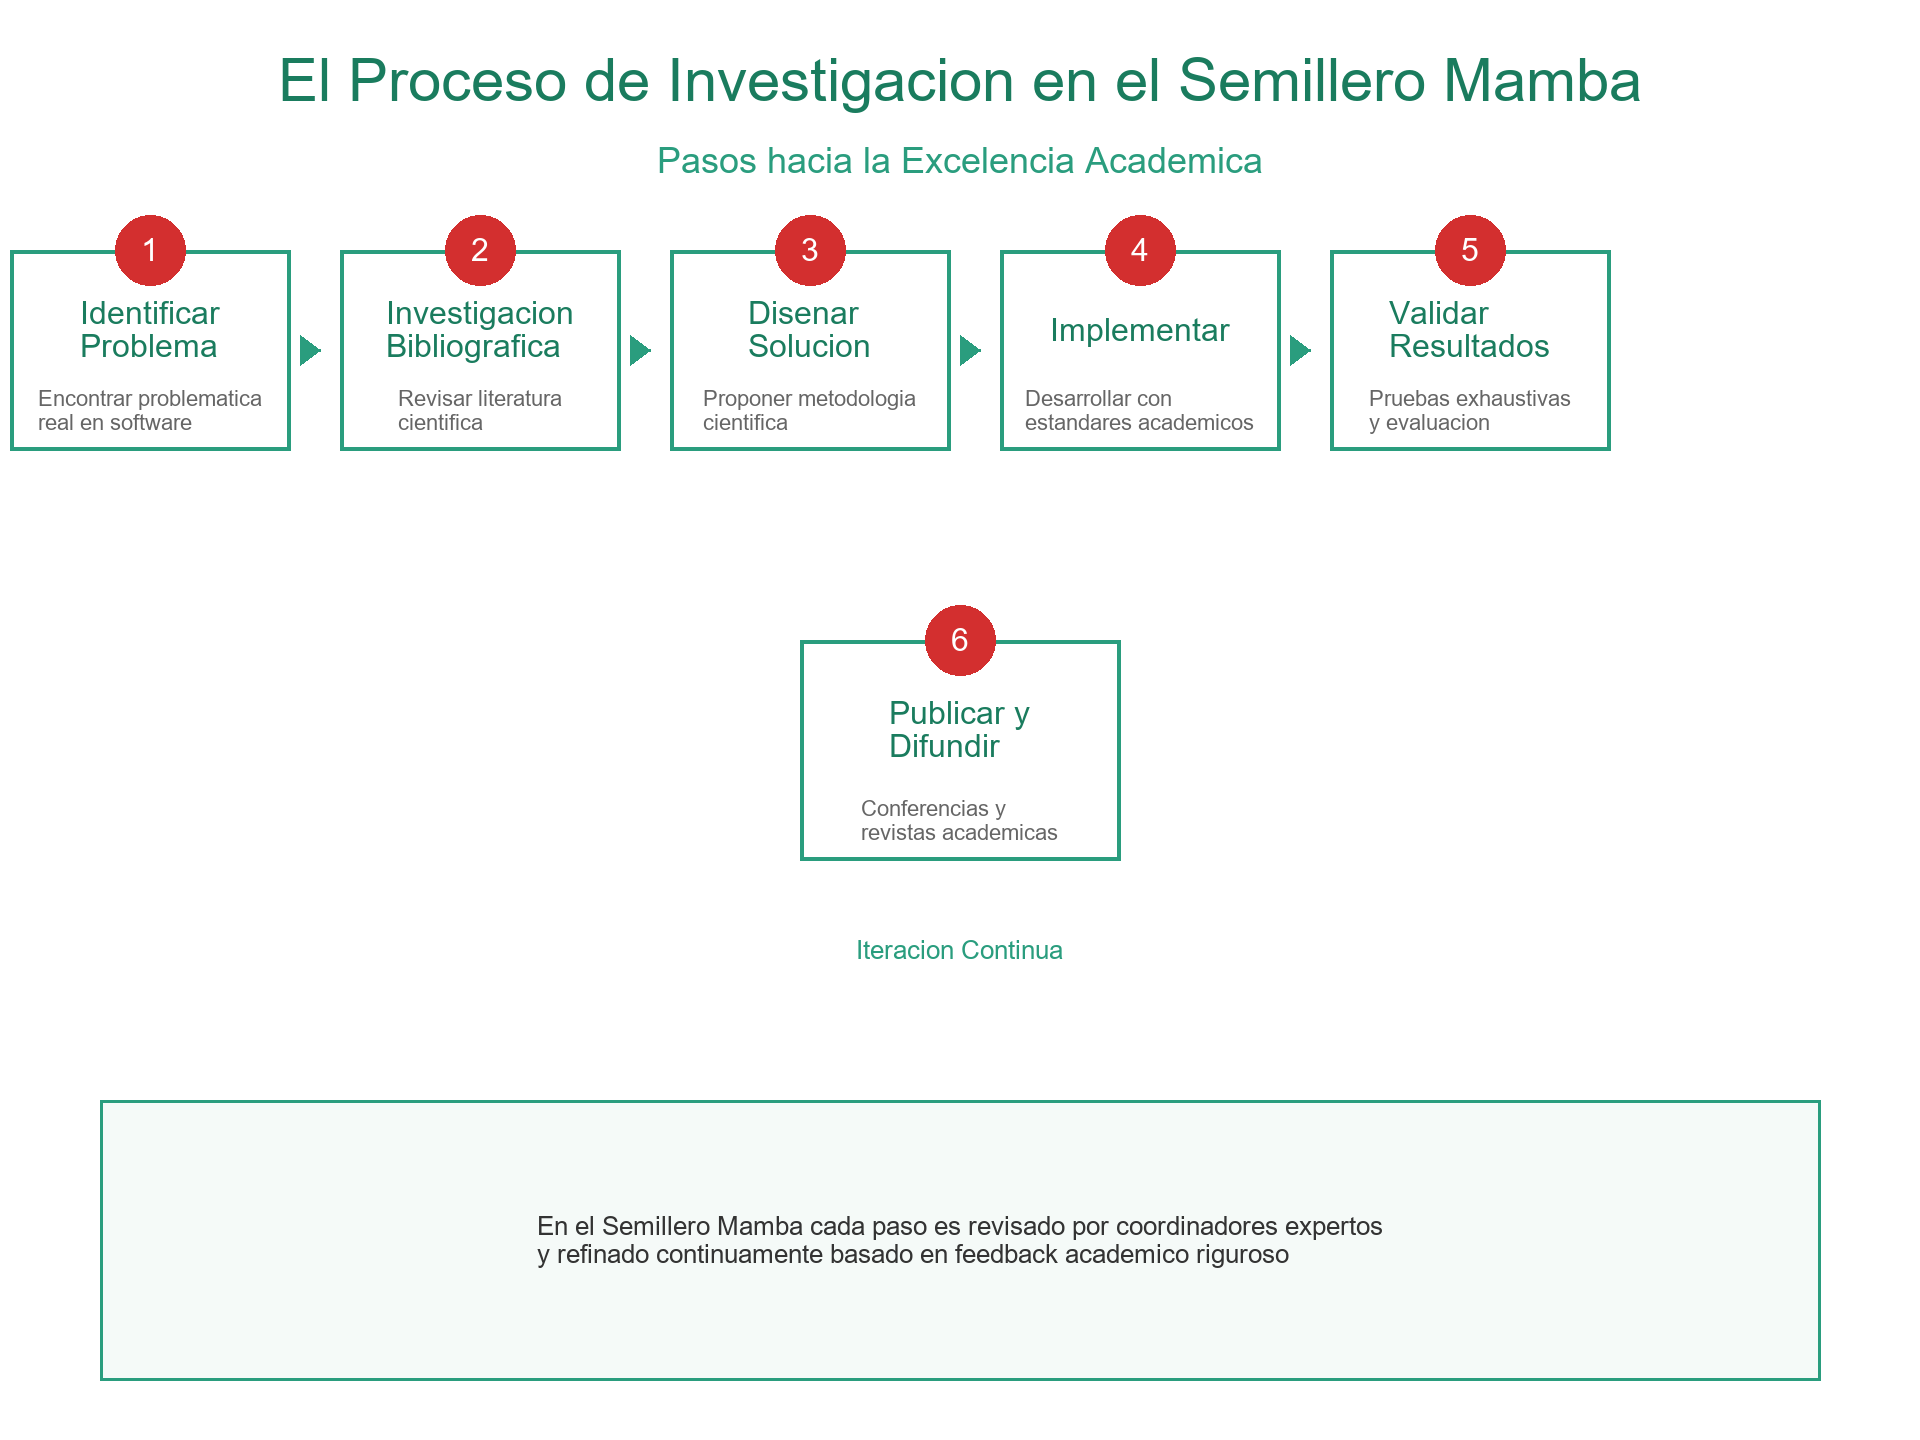
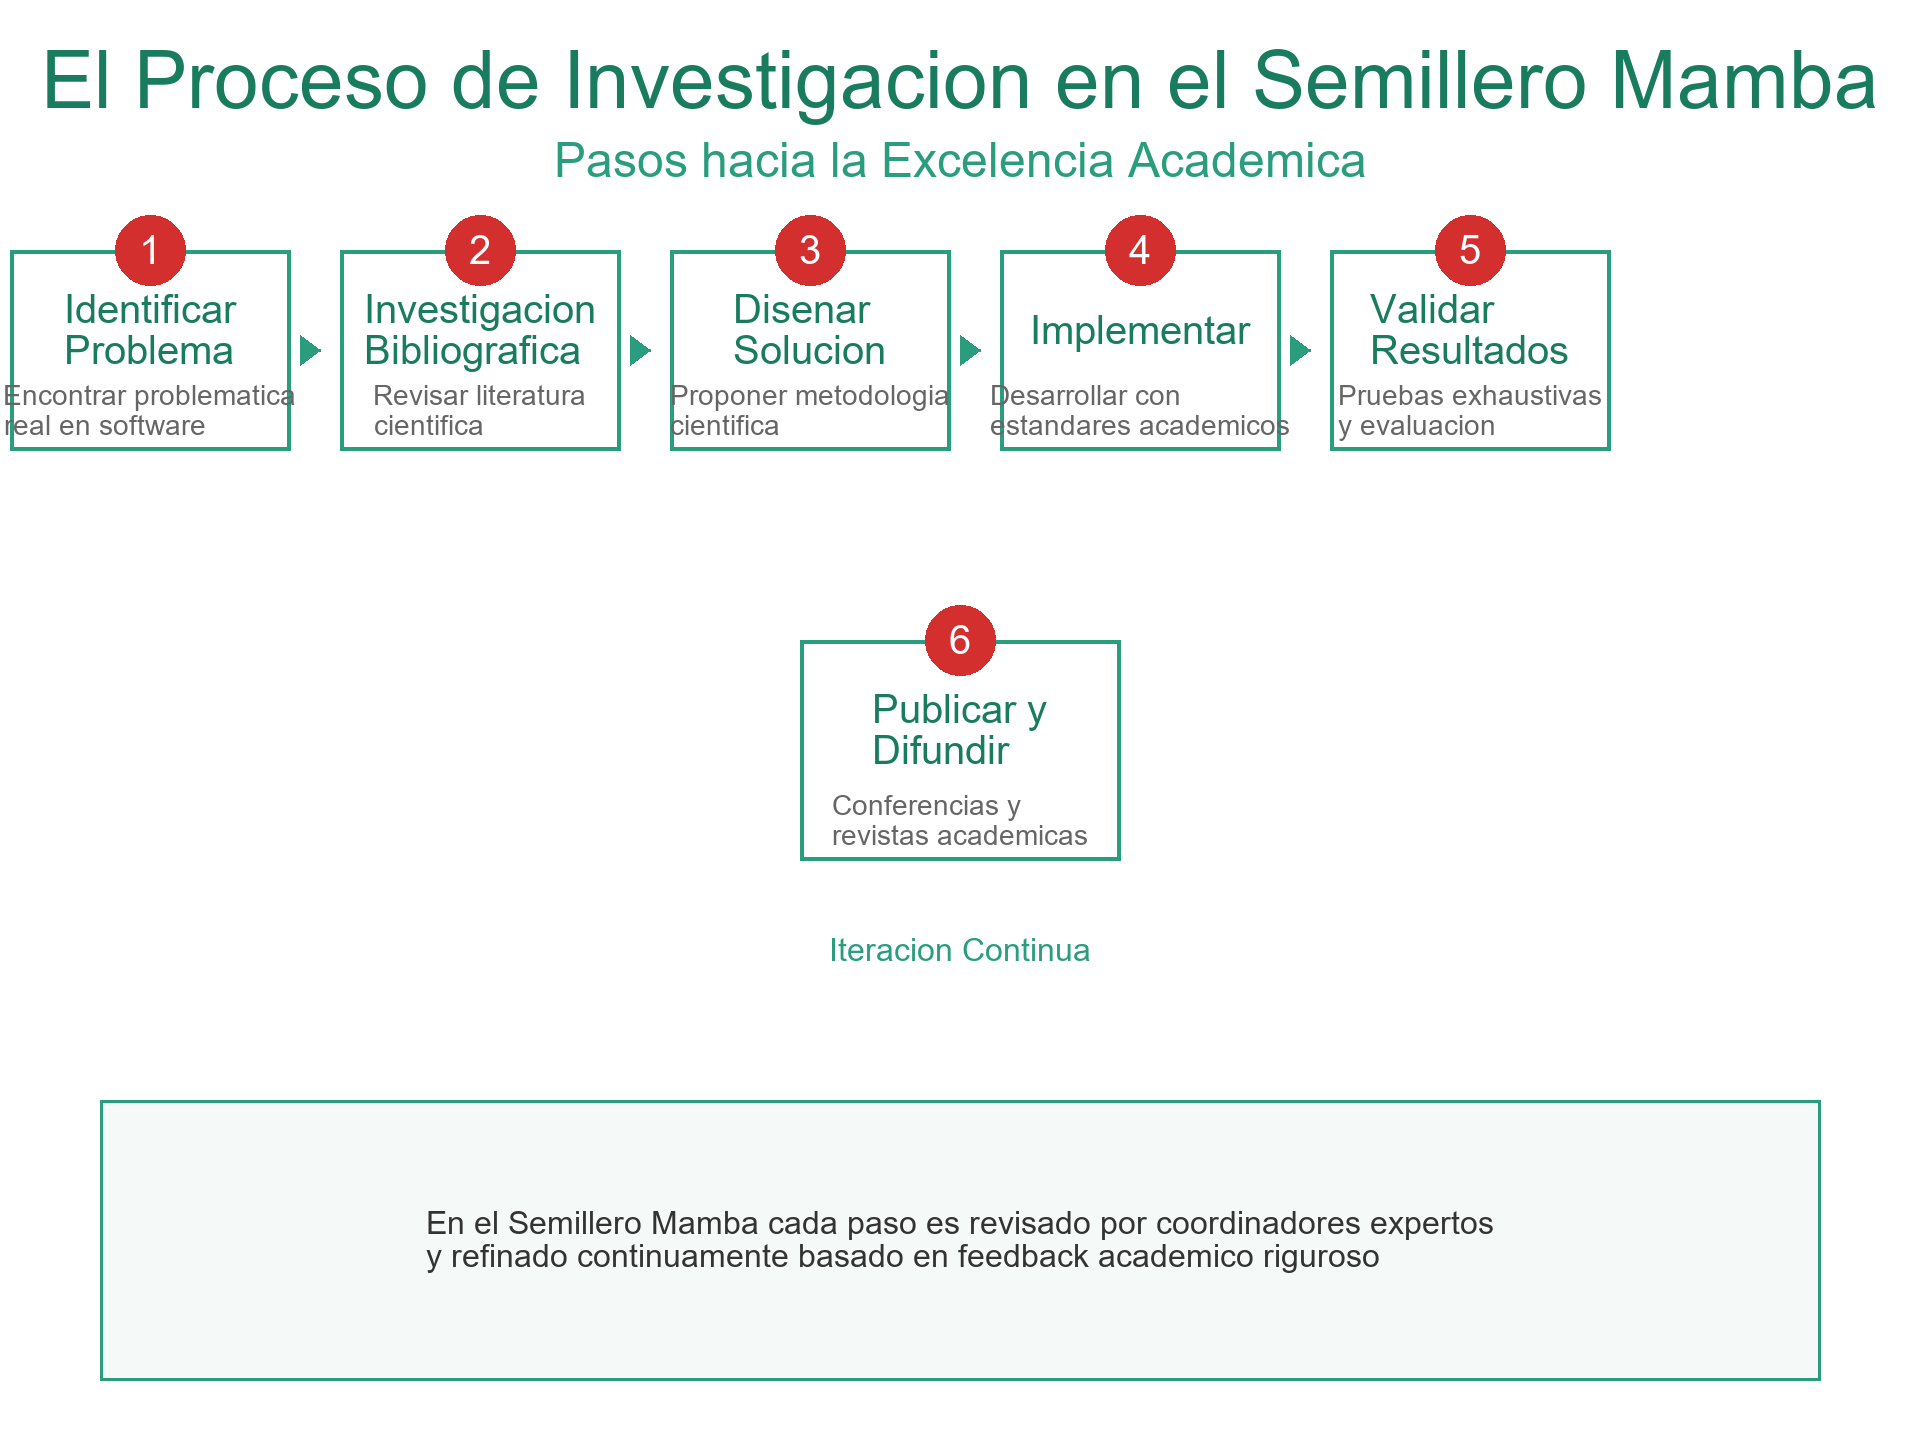
improve: Increase text size and center elements in research diagrams for better visibility

diff --git a/Pagina Web/generate_research_diagrams_pil.py b/Pagina Web/generate_research_diagrams_pil.py
@@ -14,11 +14,11 @@ light_gray = '#f5f5f5'
 
 # Intentar cargar fuentes
 try:
-    title_font = ImageFont.truetype("arial.ttf", 60)
-    subtitle_font = ImageFont.truetype("arial.ttf", 36)
-    step_title_font = ImageFont.truetype("arial.ttf", 32)
-    step_desc_font = ImageFont.truetype("arial.ttf", 22)
-    info_font = ImageFont.truetype("arial.ttf", 26)
+    title_font = ImageFont.truetype("arial.ttf", 80)
+    subtitle_font = ImageFont.truetype("arial.ttf", 48)
+    step_title_font = ImageFont.truetype("arial.ttf", 40)
+    step_desc_font = ImageFont.truetype("arial.ttf", 28)
+    info_font = ImageFont.truetype("arial.ttf", 32)
 except:
     from PIL import ImageFont
     title_font = ImageFont.load_default()
@@ -149,24 +149,24 @@ img2 = Image.new('RGB', (1800, 1600), color='white')
 draw2 = ImageDraw.Draw(img2, 'RGBA')
 
 # Titulo
-draw2.text((900, 100), "Ciclo de Investigacion Cientifica",
+draw2.text((900, 120), "Ciclo de Investigacion Cientifica",
            font=title_font, fill=primary_green, anchor="mm")
-draw2.text((900, 180), "Proceso Riguroso y Sistematico",
+draw2.text((900, 220), "Proceso Riguroso y Sistematico",
            font=subtitle_font, fill=secondary_green, anchor="mm")
 
 # Datos del ciclo
 cycle_steps = [
-    "Pregunta de Investigacion",
-    "Revision de Literatura",
-    "Hipotesis y Diseño",
-    "Ejecucion del Proyecto",
-    "Analisis de Resultados",
-    "Conclusiones y Publicacion",
+    "Pregunta de\nInvestigacion",
+    "Revision de\nLiteratura",
+    "Hipotesis y\nDiseño",
+    "Ejecucion del\nProyecto",
+    "Analisis de\nResultados",
+    "Conclusiones y\nPublicacion",
 ]
 
 # Posiciones en circulo
-center_x, center_y = 900, 800
-radius = 350
+center_x, center_y = 900, 850
+radius = 380
 
 # Colores alternos para pasos
 colors = [primary_green, secondary_green, accent_red] * 2
@@ -180,25 +180,23 @@ for i, title in enumerate(cycle_steps):
     
     color = colors[i]
     
-    # Circulo para cada paso
-    circle_r = 70
+    # Circulo principal para cada paso
+    circle_r = 80
     draw2.ellipse([(x - circle_r, y - circle_r),
                    (x + circle_r, y + circle_r)],
-                  outline=color, width=4, fill=(255, 255, 255))
+                  outline=color, width=5, fill=(255, 255, 255))
     
-    # Numero
-    num_circle_r = 28
-    draw2.ellipse([(x - num_circle_r, y - num_circle_r - 55),
-                   (x + num_circle_r, y - num_circle_r - 55 + 2*num_circle_r)],
+    # Numero en circulo rojo (arriba del circulo principal)
+    num_circle_r = 32
+    num_y = y - circle_r - 50
+    draw2.ellipse([(x - num_circle_r, num_y - num_circle_r),
+                   (x + num_circle_r, num_y + num_circle_r)],
                   fill=accent_red)
-    draw2.text((x, y - 55), str(i+1),
+    draw2.text((x, num_y), str(i+1),
                font=step_title_font, fill='white', anchor="mm")
     
-    # Etiqueta (posicionada fuera del circulo)
-    label_distance = circle_r + 80
-    label_x = x + label_distance * math.cos(rads)
-    label_y = y + label_distance * math.sin(rads)
-    draw2.text((label_x, label_y), title,
+    # Etiqueta (en el circulo principal, bien centrada)
+    draw2.text((x, y), title,
                font=step_title_font, fill=color, anchor="mm")
     
     # Flecha al siguiente paso
@@ -210,22 +208,22 @@ for i, title in enumerate(cycle_steps):
     next_y = center_y + radius * math.sin(next_rads)
     
     # Ajustar para que la flecha salga del circulo
-    from_x = x + (circle_r + 10) * math.cos(rads)
-    from_y = y + (circle_r + 10) * math.sin(rads)
-    to_x = next_x - (circle_r + 10) * math.cos(next_rads)
-    to_y = next_y - (circle_r + 10) * math.sin(next_rads)
+    from_x = x + (circle_r + 15) * math.cos(rads)
+    from_y = y + (circle_r + 15) * math.sin(rads)
+    to_x = next_x - (circle_r + 15) * math.cos(next_rads)
+    to_y = next_y - (circle_r + 15) * math.sin(next_rads)
     
     draw2.line([(from_x, from_y), (to_x, to_y)],
-               fill=secondary_green, width=4)
+               fill=secondary_green, width=5)
 
 # Centro circulo
-center_r = 90
+center_r = 110
 draw2.ellipse([(center_x - center_r, center_y - center_r),
                (center_x + center_r, center_y + center_r)],
-              outline=primary_green, width=3, fill=(245, 250, 248))
-draw2.text((center_x, center_y - 20), "Investigacion",
+              outline=primary_green, width=4, fill=(245, 250, 248))
+draw2.text((center_x, center_y - 30), "Investigacion",
            font=step_title_font, fill=primary_green, anchor="mm")
-draw2.text((center_x, center_y + 20), "Rigurosa",
+draw2.text((center_x, center_y + 30), "Rigurosa",
            font=step_title_font, fill=primary_green, anchor="mm")
 
 # Info box
